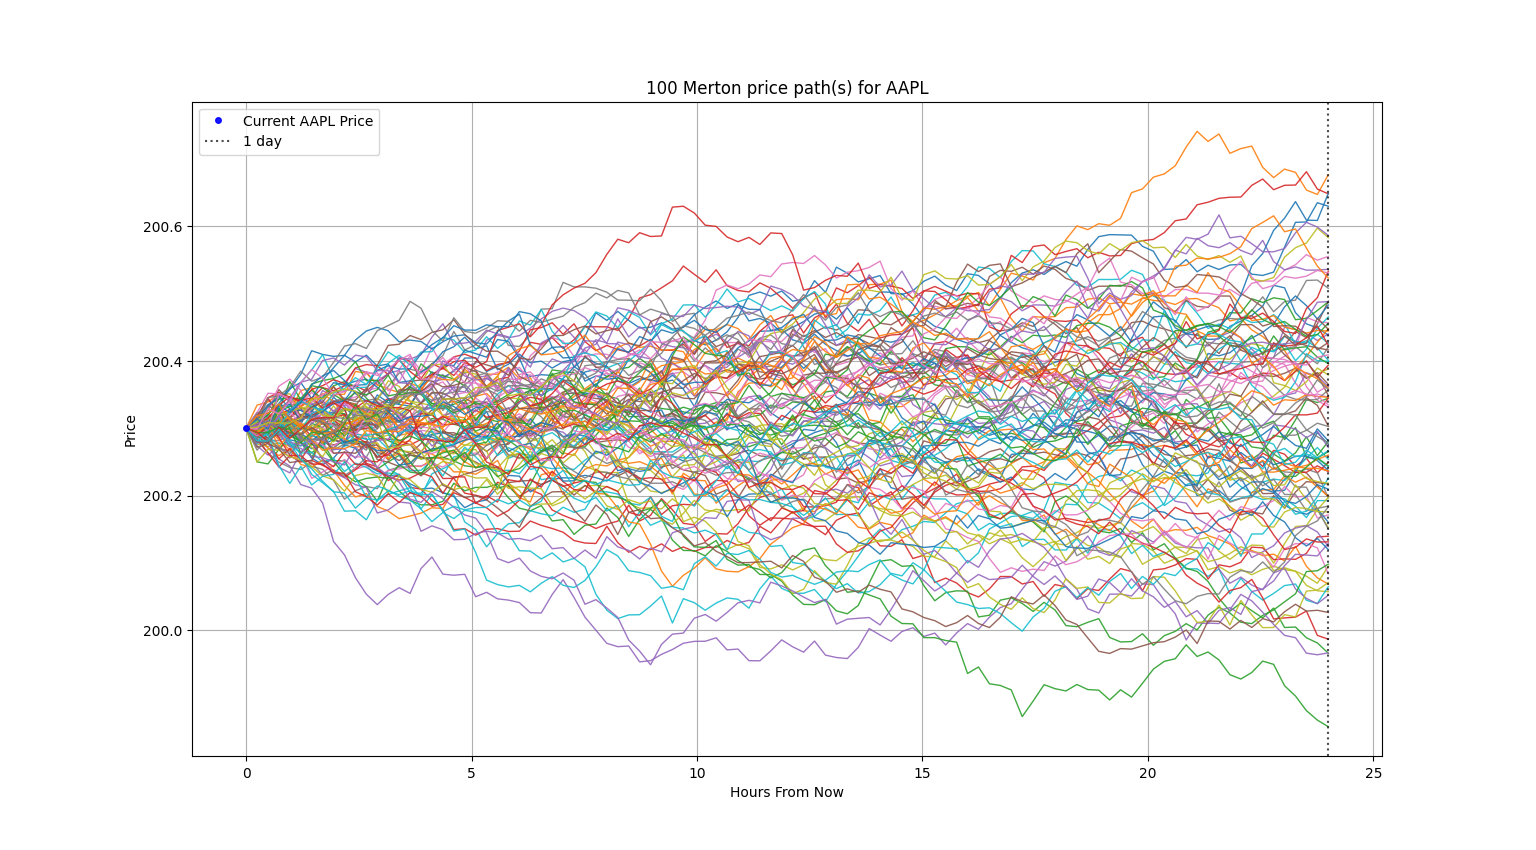
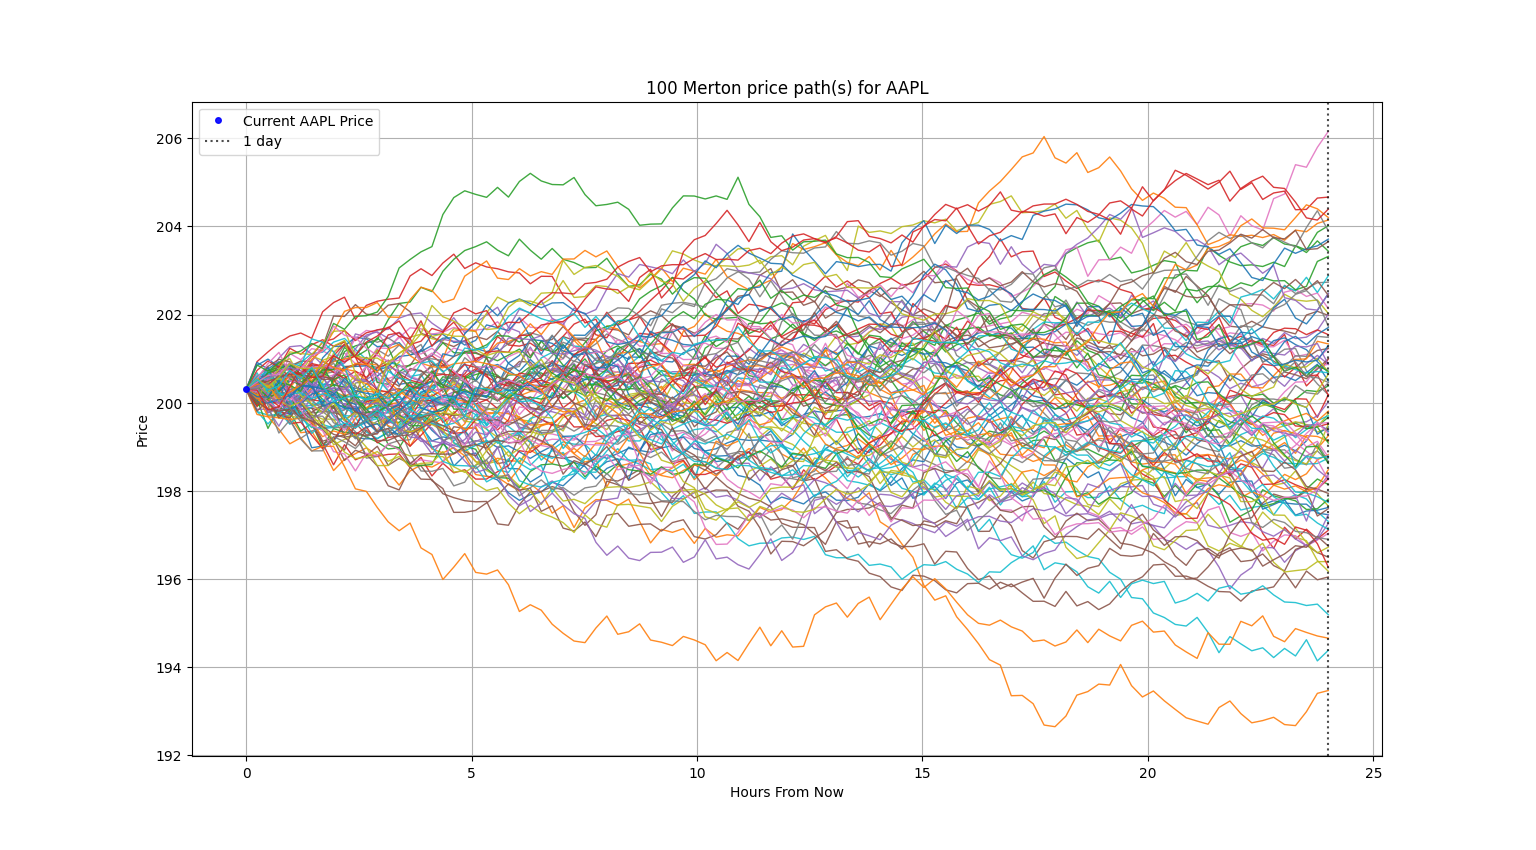
Reverting changes and redeploying test results
Found that annualized volatility and mean is the one which is indeed to be passed into MJD function.
Recomputed test results and plots.
Changed utils.py code to return annualized results

diff --git a/src/tools/utils.py b/src/tools/utils.py
@@ -29,9 +29,9 @@ def data_scrape(stock, time, backtest=False):
     mean = returns.mean()
     volatility = returns.std()
 
-    # Scaling to daily mean if it's not daily
-    mean /= (time * 252)
-    volatility /= (time * 252) ** 0.5
+    # Annualizing mean and volatility
+    mean *= (252)
+    volatility *= (252) ** 0.5
 
     # Computing Threshold for obtaining jumps
     threshold = 3 * jump_returns.std()

diff --git a/README.md b/README.md
@@ -166,11 +166,11 @@ Enter number of price paths: 100
 STOCHASTIC SIMULATION - RESULTS MAY VARY
 Stock chosen for analysis: BRK-B
 Current Price = 493.48
-Median Expected Price (1 day) = 493.47
-Average Expected Price (1 day) = 493.49
-Lowest Simulated Price = 492.89
-Highest Simulated Price = 494.10
-Probability of Price Increase = 49.00%
+Median Expected Price (1 day) = 492.47
+Average Expected Price (1 day) = 492.58
+Lowest Simulated Price = 483.51
+Highest Simulated Price = 504.05
+Probability of Price Increase = 43.00%
 ==============================================
 ```
 
@@ -188,11 +188,11 @@ Enter number of price paths: 100
 STOCHASTIC SIMULATION - RESULTS MAY VARY
 Stock chosen for analysis: AAPL
 Current Price = 200.30
-Median Expected Price (1 day) = 200.30
-Average Expected Price (1 day) = 200.30
-Lowest Simulated Price = 199.86
-Highest Simulated Price = 200.68
-Probability of Price Increase = 51.00%
+Median Expected Price (1 day) = 199.61
+Average Expected Price (1 day) = 199.76
+Lowest Simulated Price = 193.47
+Highest Simulated Price = 206.16
+Probability of Price Increase = 42.00%
 ==============================================
 ```
 
@@ -210,11 +210,11 @@ Enter number of price paths: 100
 STOCHASTIC SIMULATION - RESULTS MAY VARY
 Stock chosen for analysis: TSLA
 Current Price = 340.47
-Median Expected Price (1 day) = 340.62
-Average Expected Price (1 day) = 340.54
-Lowest Simulated Price = 337.91
-Highest Simulated Price = 343.15
-Probability of Price Increase = 54.00%
+Median Expected Price (1 day) = 341.42
+Average Expected Price (1 day) = 342.20
+Lowest Simulated Price = 305.92
+Highest Simulated Price = 394.97
+Probability of Price Increase = 52.00%
 ==============================================
 ```
 
